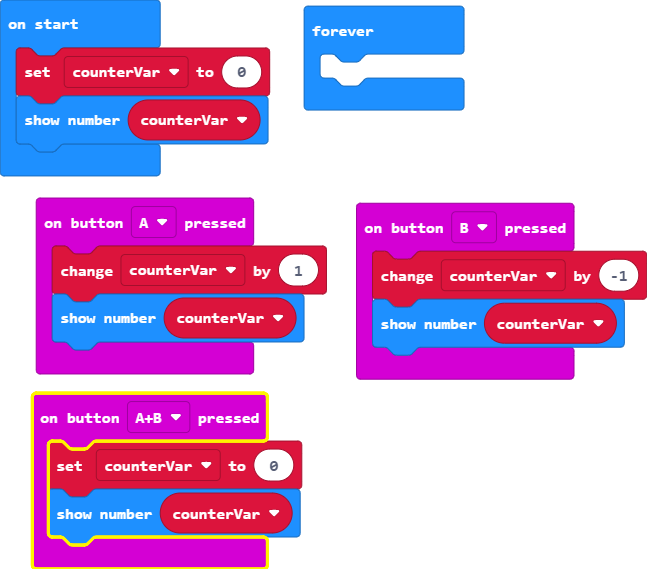
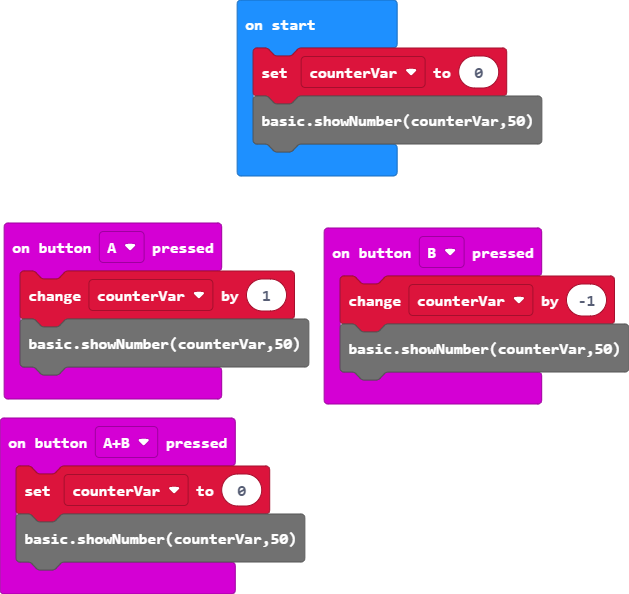
Update main.blocks, main.ts

diff --git a/main.ts b/main.ts
@@ -1,18 +1,15 @@
 input.onButtonPressed(Button.A, function () {
     counterVar += 1
-    basic.showNumber(counterVar)
+    basic.showNumber(counterVar,50)
 })
 input.onButtonPressed(Button.AB, function () {
     counterVar = 0
-    basic.showNumber(counterVar)
+    basic.showNumber(counterVar,50)
 })
 input.onButtonPressed(Button.B, function () {
     counterVar += -1
-    basic.showNumber(counterVar)
+    basic.showNumber(counterVar,50)
 })
 let counterVar = 0
 counterVar = 0
-basic.showNumber(counterVar)
-basic.forever(function () {
-	
-})
+basic.showNumber(counterVar,50)
